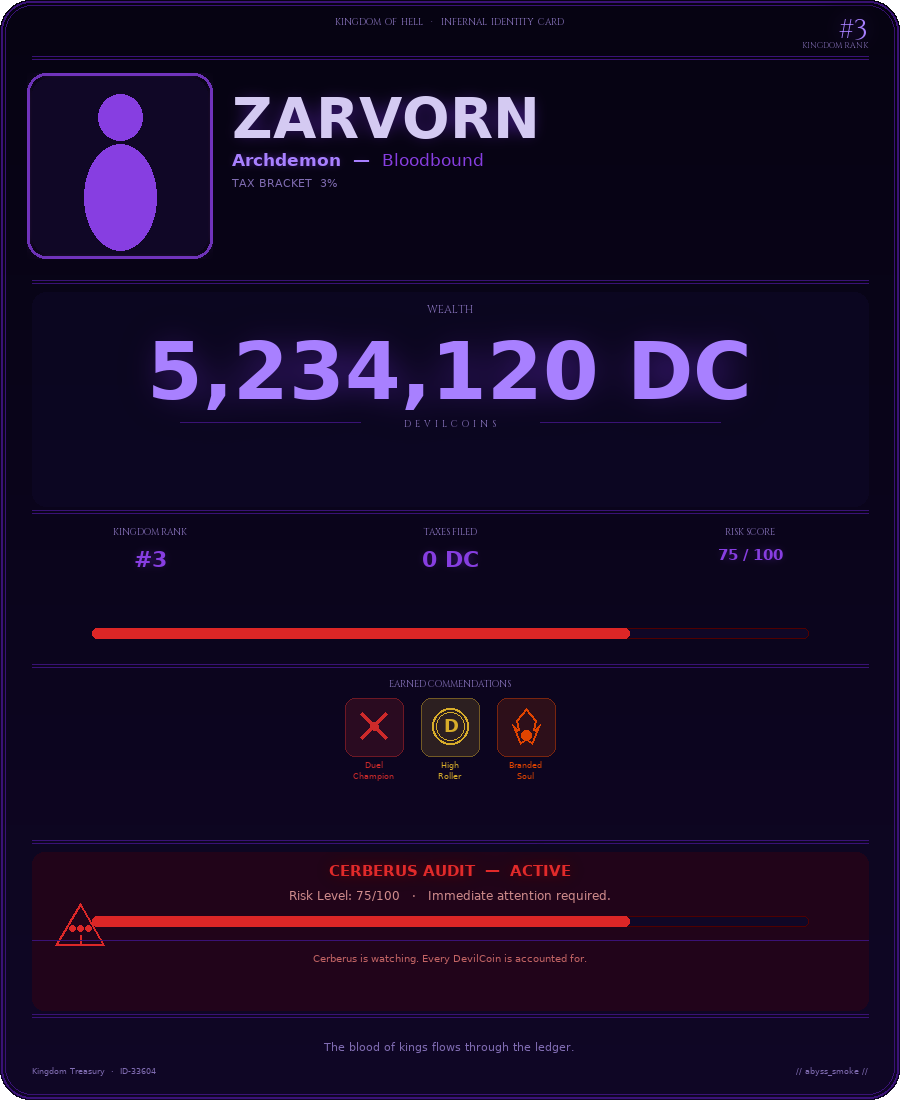
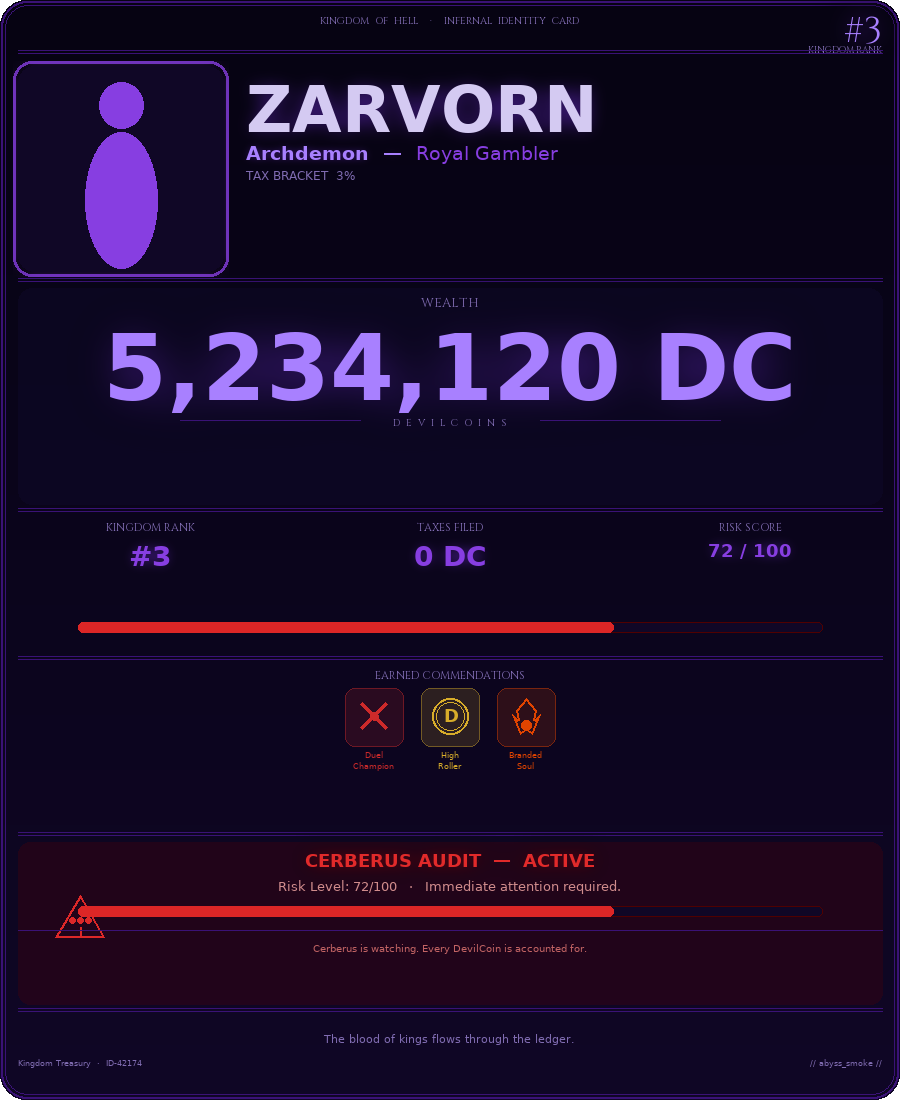
Enhance identity card display for desktop users with larger elements and reduced spacing
Redesigned the identity card to increase visual scale, reduce empty space, and improve prominence on desktop displays by adjusting padding, font sizes, and element dimensions.

Replit-Commit-Author: Agent
Replit-Commit-Session-Id: 11a38f64-3e97-45f5-bd84-fe548120dd3f
Replit-Commit-Checkpoint-Type: full_checkpoint
Replit-Commit-Event-Id: ba830089-bbcc-4a2e-9462-791cff6e2c39
Replit-Helium-Checkpoint-Created: true

diff --git a/bot/utils/card_generator.py b/bot/utils/card_generator.py
@@ -16,28 +16,28 @@ _DEJA_R = "/usr/share/fonts/truetype/dejavu/DejaVuSans.ttf"
 
 # ─── Card geometry ────────────────────────────────────────────────────────────
 W, H     = 900, 1100
-RADIUS   = 30
-PAD      = 32
+RADIUS   = 26
+PAD      = 18           # tight — content dominates the surface
 
 # ── Zone boundaries (y) ──────────────────────────────────────────────────────
-HEADER_H  = 56
+HEADER_H  = 50
 
-DIV1      = 56
-ID_Y      = 64
-AV_SZ     = 176
+DIV1      = 50
+ID_Y      = 56
+AV_SZ     = 206          # large avatar
 AV_X      = PAD
-AV_Y      = ID_Y + 14
+AV_Y      = ID_Y + 10
 
-DIV2      = 280
-WEALTH_Y  = 288
-DIV3      = 510
-STATS_Y   = 518
-DIV4      = 664
-BADGE_Y   = 672
-DIV5      = 840
-AUDIT_Y   = 848
-DIV6      = 1014
-FOOTER_Y  = 1022
+DIV2      = 278
+WEALTH_Y  = 284
+DIV3      = 508
+STATS_Y   = 514
+DIV4      = 656
+BADGE_Y   = 662
+DIV5      = 832
+AUDIT_Y   = 838
+DIV6      = 1008
+FOOTER_Y  = 1014
 
 # ─── Skin themes ──────────────────────────────────────────────────────────────
 THEMES = {
@@ -514,22 +514,22 @@ def generate_card(
                             radius=RADIUS - 3, outline=(*t["border"][:3], 45), width=1)
 
     # Header center text
-    hf = _font(9, cinzel=True)
+    hf = _font(10, cinzel=True)
     htxt = "KINGDOM  OF  HELL    ·    INFERNAL  IDENTITY  CARD"
-    draw.text(((W - _tw(draw, htxt, hf)) // 2, 16), htxt,
-              font=hf, fill=(*t["text2"][:3], 150))
+    draw.text(((W - _tw(draw, htxt, hf)) // 2, 14), htxt,
+              font=hf, fill=(*t["text2"][:3], 155))
 
-    # Kingdom Rank badge — top right
+    # Kingdom Rank badge — top right (larger, dominant)
     kr_str = f"#{kingdom_rank}"
-    krf = _font(28, bold=True, cinzel=True)
+    krf = _font(36, bold=True, cinzel=True)
     krw = _tw(draw, kr_str, krf)
-    _glow(card, (W - PAD - krw, 10), kr_str, krf,
-          (*t["gold"][:3], 248), t["glow"], blur=14, spread=3)
+    _glow(card, (W - PAD - krw, 6), kr_str, krf,
+          (*t["gold"][:3], 252), t["glow"], blur=16, spread=4)
     draw = ImageDraw.Draw(card)
-    krl = _font(8, cinzel=True)
+    krl = _font(9, cinzel=True)
     krlw = _tw(draw, "KINGDOM RANK", krl)
-    draw.text((W - PAD - krlw, 40), "KINGDOM RANK",
-              font=krl, fill=(*t["text2"][:3], 135))
+    draw.text((W - PAD - krlw, 44), "KINGDOM RANK",
+              font=krl, fill=(*t["text2"][:3], 140))
 
     _double_line(draw, DIV1, t)
 
@@ -541,30 +541,30 @@ def generate_card(
     draw = ImageDraw.Draw(card)
 
     # Display name — dominant
-    name_x = AV_X + AV_SZ + 24
-    max_name_w = W - name_x - PAD - 60
+    name_x = AV_X + AV_SZ + 22
+    max_name_w = W - name_x - PAD - 50
 
     dn = display_name or username
-    name_font = _fit_font(draw, dn, max_name_w, 56, 26, bold=True)
-    name_y = AV_Y + 8
+    name_font = _fit_font(draw, dn, max_name_w, 64, 28, bold=True)
+    name_y = AV_Y + 6
     _glow(card, (name_x, name_y), dn, name_font,
-          t["text1"], t["glow"], blur=9, spread=2)
+          t["text1"], t["glow"], blur=10, spread=3)
     draw = ImageDraw.Draw(card)
 
     # Secondary line: Rank — Title
     has_title = equipped_title and equipped_title.lower() not in ("unmarked", "")
     title_text = equipped_title if has_title else "Kingdom of Hell"
-    rp_font = _font(17, bold=True)
-    sec_font = _font(17)
-    name_h = getattr(name_font, "size", 42)
-    sec_y = name_y + name_h + 8
+    rp_font = _font(19, bold=True)
+    sec_font = _font(19)
+    name_h = getattr(name_font, "size", 52)
+    sec_y = name_y + name_h + 6
     rank_part = f"{rank}  —  "
     rpw = _tw(draw, rank_part, rp_font)
     _glow(card, (name_x, sec_y), rank_part, rp_font,
-          (*t["gold"][:3], 232), t["glow"], blur=5, spread=1)
+          (*t["gold"][:3], 236), t["glow"], blur=5, spread=1)
     draw = ImageDraw.Draw(card)
     draw.text((name_x + rpw, sec_y), title_text,
-              font=sec_font, fill=(*t["accent"][:3], 215))
+              font=sec_font, fill=(*t["accent"][:3], 220))
 
     # Tax bracket tag
     RANK_TAX = {
@@ -573,15 +573,15 @@ def generate_card(
     }
     tax_rate = RANK_TAX.get(rank, 0.12)
     tax_str = "TAX EXEMPT" if tax_rate == 0 else f"TAX BRACKET  {int(tax_rate * 100)}%"
-    tbf = _font(11)
+    tbf = _font(12)
     draw.text((name_x, sec_y + 26), tax_str,
-              font=tbf, fill=(*t["text2"][:3], 155))
+              font=tbf, fill=(*t["text2"][:3], 158))
 
     # Username (subtle)
     if username and username.lower() != dn.lower():
         unf = _font(11)
         draw.text((name_x, sec_y + 46), f"@{username}",
-                  font=unf, fill=(*t["text2"][:3], 100))
+                  font=unf, fill=(*t["text2"][:3], 105))
 
     _double_line(draw, DIV2, t)
 
@@ -589,30 +589,30 @@ def generate_card(
     # ZONE 3 — WEALTH (DOMINANT)
     # ────────────────────────────────────────────────────────────────────────
 
-    wlf = _font(11, cinzel=True)
+    wlf = _font(13, cinzel=True)
     wlw = _tw(draw, "WEALTH", wlf)
-    draw.text(((W - wlw) // 2, WEALTH_Y + 14), "WEALTH",
-              font=wlf, fill=(*t["text2"][:3], 175))
+    draw.text(((W - wlw) // 2, WEALTH_Y + 10), "WEALTH",
+              font=wlf, fill=(*t["text2"][:3], 180))
 
     bal_str = _fmt_dc(balance)
-    bal_font = _fit_font(draw, bal_str, W - 80, 80, 44, bold=True)
+    bal_font = _fit_font(draw, bal_str, W - 60, 92, 50, bold=True)
     bal_w = _tw(draw, bal_str, bal_font)
-    bal_y = WEALTH_Y + 36
+    bal_y = WEALTH_Y + 30
     _glow(card, ((W - bal_w) // 2, bal_y), bal_str, bal_font,
-          (*t["gold"][:3], 252), t["glow"], blur=20, spread=5)
+          (*t["gold"][:3], 255), t["glow"], blur=24, spread=6)
     draw = ImageDraw.Draw(card)
 
-    bal_h = getattr(bal_font, "size", 72)
-    accent_y = bal_y + bal_h + 18
+    bal_h = getattr(bal_font, "size", 82)
+    accent_y = bal_y + bal_h + 14
     draw.line([(W // 5, accent_y), (2 * W // 5, accent_y)],
-              fill=(*t["border"][:3], 55), width=1)
+              fill=(*t["border"][:3], 60), width=1)
     draw.line([(3 * W // 5, accent_y), (4 * W // 5, accent_y)],
-              fill=(*t["border"][:3], 55), width=1)
+              fill=(*t["border"][:3], 60), width=1)
     dc_lbl = "D  E  V  I  L  C  O  I  N  S"
-    dc_f = _font(9, cinzel=True)
+    dc_f = _font(10, cinzel=True)
     dc_w = _tw(draw, dc_lbl, dc_f)
     draw.text(((W - dc_w) // 2, accent_y - 4), dc_lbl,
-              font=dc_f, fill=(*t["text2"][:3], 110))
+              font=dc_f, fill=(*t["text2"][:3], 118))
 
     _double_line(draw, DIV3, t)
 
@@ -620,20 +620,20 @@ def generate_card(
     # ZONE 4 — STATS
     # ────────────────────────────────────────────────────────────────────────
 
-    lbl_f = _font(9, cinzel=True)
-    val_f  = _font(22, bold=True)
-    val_f2 = _font(15, bold=True)
+    lbl_f = _font(11, cinzel=True)
+    val_f  = _font(28, bold=True)
+    val_f2 = _font(18, bold=True)
 
     cols = [W // 6, W // 2, 5 * W // 6]
 
     def _stat(cx_: int, label: str, value: str, large: bool = True):
         lw_ = _tw(draw, label, lbl_f)
-        draw.text((cx_ - lw_ // 2, STATS_Y + 8), label,
-                  font=lbl_f, fill=(*t["text2"][:3], 175))
+        draw.text((cx_ - lw_ // 2, STATS_Y + 6), label,
+                  font=lbl_f, fill=(*t["text2"][:3], 178))
         vf = val_f if large else val_f2
         vw_ = _tw(draw, value, vf)
-        _glow(card, (cx_ - vw_ // 2, STATS_Y + 28), value, vf,
-              (*t["accent"][:3], 228), t["glow"], blur=6, spread=1)
+        _glow(card, (cx_ - vw_ // 2, STATS_Y + 26), value, vf,
+              (*t["accent"][:3], 232), t["glow"], blur=7, spread=2)
 
     _stat(cols[0], "KINGDOM RANK", f"#{kingdom_rank}")
     _stat(cols[1], "TAXES FILED", _fmt_dc(taxes_paid))
@@ -642,7 +642,7 @@ def generate_card(
     draw = ImageDraw.Draw(card)
 
     # Risk score mini-bar
-    _risk_bar(draw, risk_score, t, STATS_Y + 110)
+    _risk_bar(draw, risk_score, t, STATS_Y + 108)
 
     _double_line(draw, DIV4, t)
 
@@ -651,7 +651,7 @@ def generate_card(
     # ────────────────────────────────────────────────────────────────────────
 
     badge_section_y = BADGE_Y
-    blbl_f = _font(9, cinzel=True)
+    blbl_f = _font(11, cinzel=True)
     blw = _tw(draw, "EARNED COMMENDATIONS", blbl_f)
     draw.text(((W - blw) // 2, badge_section_y + 6), "EARNED COMMENDATIONS",
               font=blbl_f, fill=(*t["text2"][:3], 160))
@@ -733,18 +733,18 @@ def generate_card(
         draw.line([(tri_cx, tri_cy + 4), (tri_cx, tri_cy + 12)],
                   fill=(220, 40, 40, 220), width=2)
 
-        at_f = _font(15, bold=True)
+        at_f = _font(18, bold=True)
         at_w = _tw(draw, "CERBERUS AUDIT  —  ACTIVE", at_f)
-        _glow(card, ((W - at_w) // 2, az + 14),
+        _glow(card, ((W - at_w) // 2, az + 12),
               "CERBERUS AUDIT  —  ACTIVE", at_f,
-              (225, 42, 42, 240), (180, 0, 0), blur=8, spread=2)
+              (225, 42, 42, 245), (180, 0, 0), blur=9, spread=2)
         draw = ImageDraw.Draw(card)
 
-        rs_f = _font(12)
+        rs_f = _font(13)
         rs_str = f"Risk Level: {risk_score}/100   ·   Immediate attention required."
         rs_w = _tw(draw, rs_str, rs_f)
         draw.text(((W - rs_w) // 2, az + 40), rs_str,
-                  font=rs_f, fill=(208, 140, 140, 200))
+                  font=rs_f, fill=(208, 140, 140, 205))
 
         # Red risk bar
         _risk_bar(draw, risk_score, t, az + 68)
@@ -777,14 +777,14 @@ def generate_card(
         draw.line([(sc_cx - 3, sc_cy + 10), (sc_cx + 12, sc_cy - 10)],
                   fill=(*t["gold"][:3], 210), width=3)
 
-        clr_f = _font(15, bold=True)
+        clr_f = _font(18, bold=True)
         clr_str = "RECORD VERIFIED  —  CERBERUS CLEARED"
         clr_w = _tw(draw, clr_str, clr_f)
-        _glow(card, ((W - clr_w) // 2, az + 14), clr_str, clr_f,
-              (*t["gold"][:3], 230), t["glow"], blur=6, spread=1)
+        _glow(card, ((W - clr_w) // 2, az + 12), clr_str, clr_f,
+              (*t["gold"][:3], 234), t["glow"], blur=7, spread=1)
         draw = ImageDraw.Draw(card)
 
-        cf2 = _font(11)
+        cf2 = _font(13)
         cm = f"Risk Score: {risk_score}/100   ·   Kingdom record in good standing."
         cmw = _tw(draw, cm, cf2)
         draw.text(((W - cmw) // 2, az + 42), cm,
@@ -799,11 +799,11 @@ def generate_card(
 
     else:
         # Neutral kingdom status
-        ns_f = _font(12, cinzel=True)
+        ns_f = _font(14, cinzel=True)
         ns = "KINGDOM STATUS"
         nsw = _tw(draw, ns, ns_f)
-        draw.text(((W - nsw) // 2, az + 18), ns,
-                  font=ns_f, fill=(*t["text2"][:3], 150))
+        draw.text(((W - nsw) // 2, az + 16), ns,
+                  font=ns_f, fill=(*t["text2"][:3], 155))
 
         div_cx = W // 2
         draw.line([(div_cx - 80, az + 38), (div_cx - 12, az + 38)],
@@ -816,16 +816,16 @@ def generate_card(
                       (div_cx, az + 44), (div_cx - 7, az + 38)],
                      fill=(*t["accent"][:3], 160))
 
-        st_f = _font(13, bold=True)
+        st_f = _font(16, bold=True)
         st = "STANDING MEMBER  ·  NO AUDIT PENDING"
         stw = _tw(draw, st, st_f)
-        draw.text(((W - stw) // 2, az + 56), st,
-                  font=st_f, fill=(*t["accent"][:3], 185))
+        draw.text(((W - stw) // 2, az + 54), st,
+                  font=st_f, fill=(*t["accent"][:3], 190))
 
-        sf2 = _font(10)
+        sf2 = _font(12)
         sv = "All records nominal. Cerberus rests."
         svw = _tw(draw, sv, sf2)
-        draw.text(((W - svw) // 2, az + 84), sv,
+        draw.text(((W - svw) // 2, az + 82), sv,
                   font=sf2, fill=(*t["text2"][:3], 140))
 
         # Skin indicator
